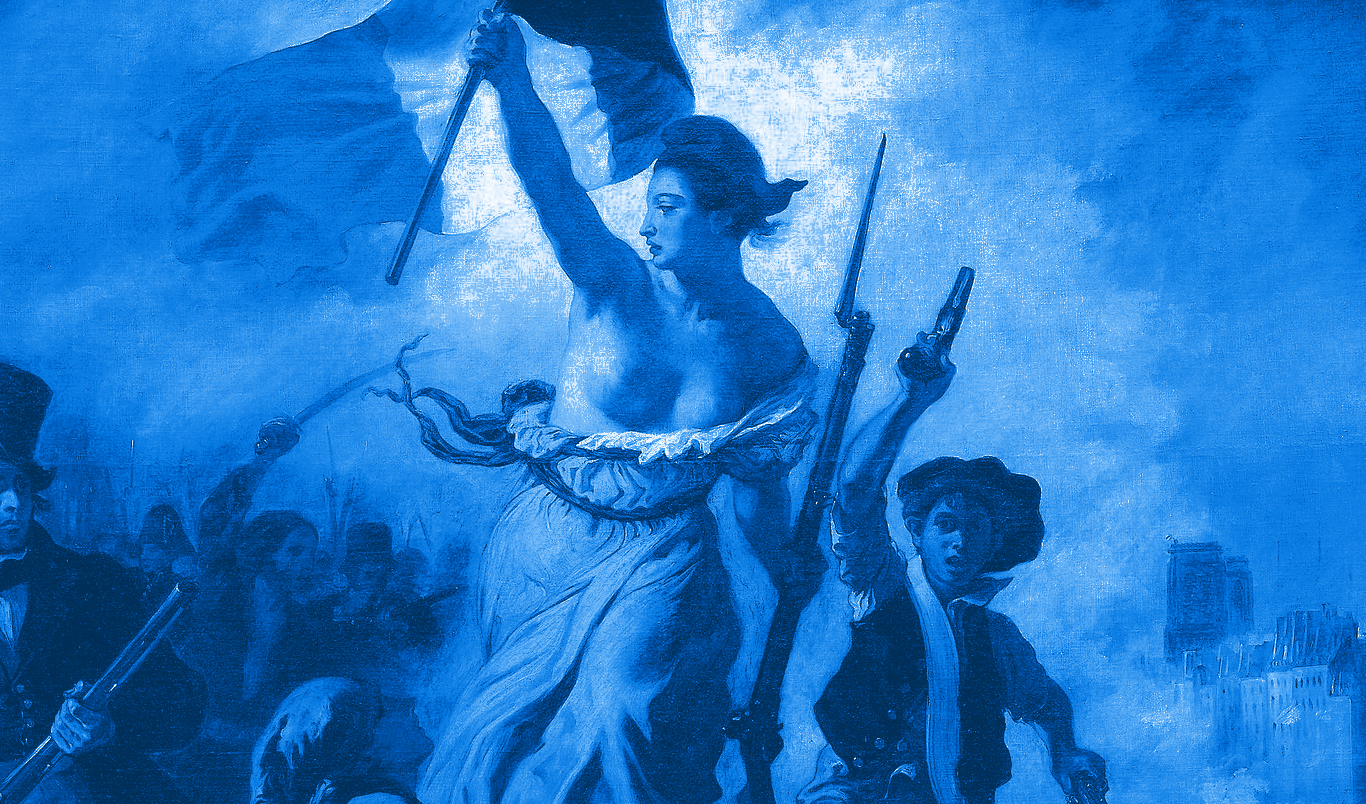
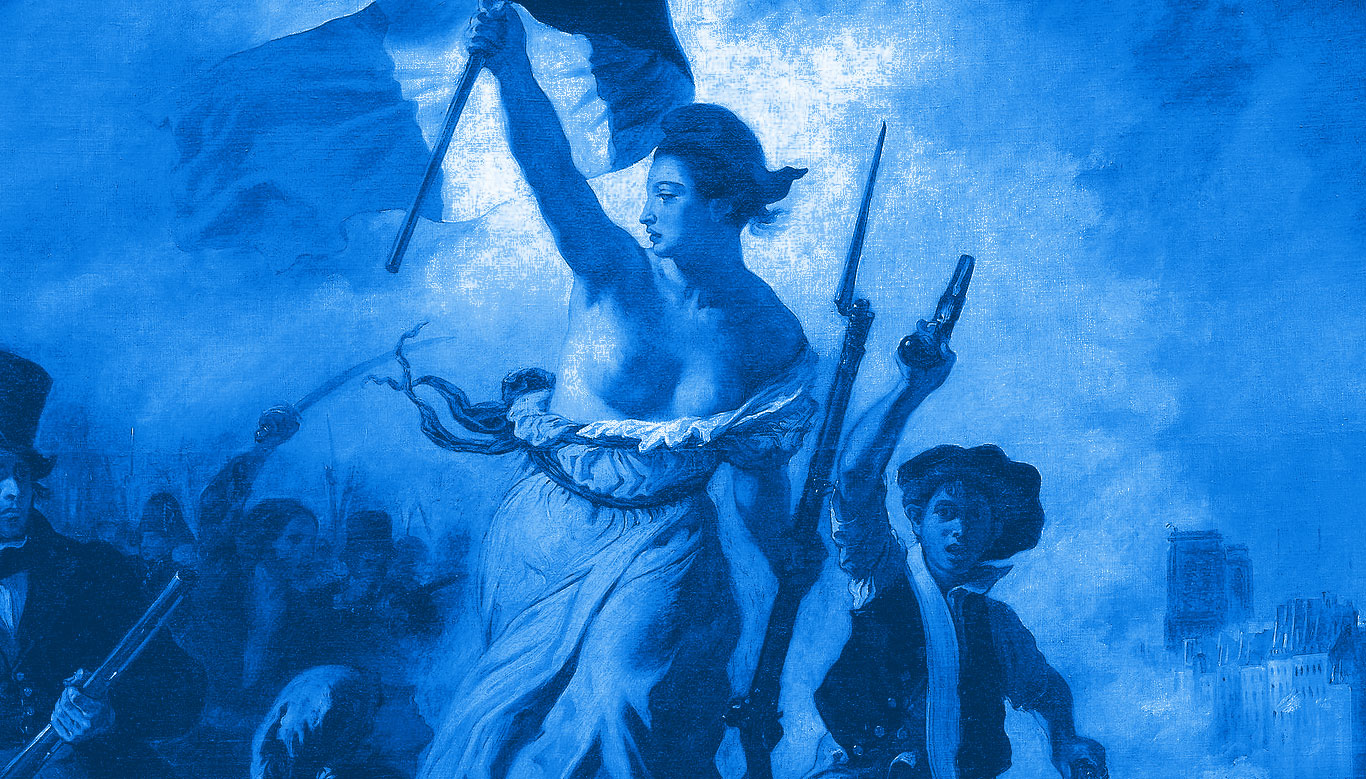
Fix parallelebipeded in IE11 and Edge

diff --git a/src/components/Parallelepiped/index.js b/src/components/Parallelepiped/index.js
@@ -2,8 +2,9 @@ import React, { Component } from 'react';
 import PropTypes from 'prop-types';
 import styled, { withTheme } from 'styled-components';
 
-const getScaleYByPlacement = ({ placement }) =>
-	`scaleY(${placement === 'toTop' ? 1 : -1})`;
+const getTranslateYByPlacement = ({ placement }) => (
+	placement === 'toTop' ? '' : 'translateY(100%)'
+);
 
 const getRotateByPlacement = ({ ready, placement }) => (
 	!ready ?
@@ -28,7 +29,7 @@ const Container = styled('div')`
 	width: ${getWidthBySize}px;
 	height: ${getHeightBySize}px;
 	transform-origin: 0 100%;
-	transform: ${getPosition} ${getRotateByPlacement} ${getScaleYByPlacement};
+	transform: ${getPosition} ${getRotateByPlacement} ${getTranslateYByPlacement};
 	opacity: ${({ ready }) => (ready ? 1 : 0)};
 	transition: transform 400ms cubic-bezier(0,1,.37,.98),
 		opacity 400ms cubic-bezier(0,1,.37,.98);
@@ -37,22 +38,18 @@ const Container = styled('div')`
 	left: 0;
 `;
 
-const Image = styled('div')`
+const Image = styled('image')`
 	position: absolute;
 	top: 0;
 	left: 0;
 	width: 100%;
 	height: 100%;
 	clip-path: url(#${({ clipPathId }) => clipPathId});
-	background-color: ${({ color }) => color};
-	background-image: url('${({ image }) => image}');
-	background-size: cover;
-	background-repeat: no-repeat;
-	background-position: center center;
+	${({ color }) => color && `background-color: ${color};`}
 	border: 0;
 `;
 
-const parallelepipedPathClass = css`
+const ParallelepipedPath = styled('path')`
 	transition: fill 400ms cubic-bezier(0,1,.37,.98);
 `;
 
@@ -116,23 +113,27 @@ class Parallelepiped extends Component {
 					viewBox={`0 0 ${width} ${height}`}
 					version="1.1"
 				>
-					<defs>
-						<clipPath id={clipPathId}>
-							<path
-								d={placement === 'toBottom' ? pathToBottom : pathToTop}
-								className={parallelepipedPathClass}
-							/>
-						</clipPath>
-					</defs>
+					{image && (
+						<defs>
+							<clipPath id={clipPathId}>
+								<ParallelepipedPath d={placement === 'toBottom' ? pathToBottom : pathToTop} />
+							</clipPath>
+						</defs>
+					)}
+					{image && (
+						<Image
+							clipPathId={clipPathId}
+							xlinkHref={image}
+							width={width}
+							height={height}
+						/>)}
+					{!image && (
+						<ParallelepipedPath
+							d={placement === 'toBottom' ? pathToBottom : pathToTop}
+							fill={theme[color]}
+						/>
+					)}
 				</svg>
-				<Image
-					color={!image && theme[color]}
-					clipPathId={clipPathId}
-					image={image}
-					style={{
-						transform: `scaleY(${placement === 'toBottom' ? -1 : 1})`,
-					}}
-				/>
 			</Container>
 		);
 	}
